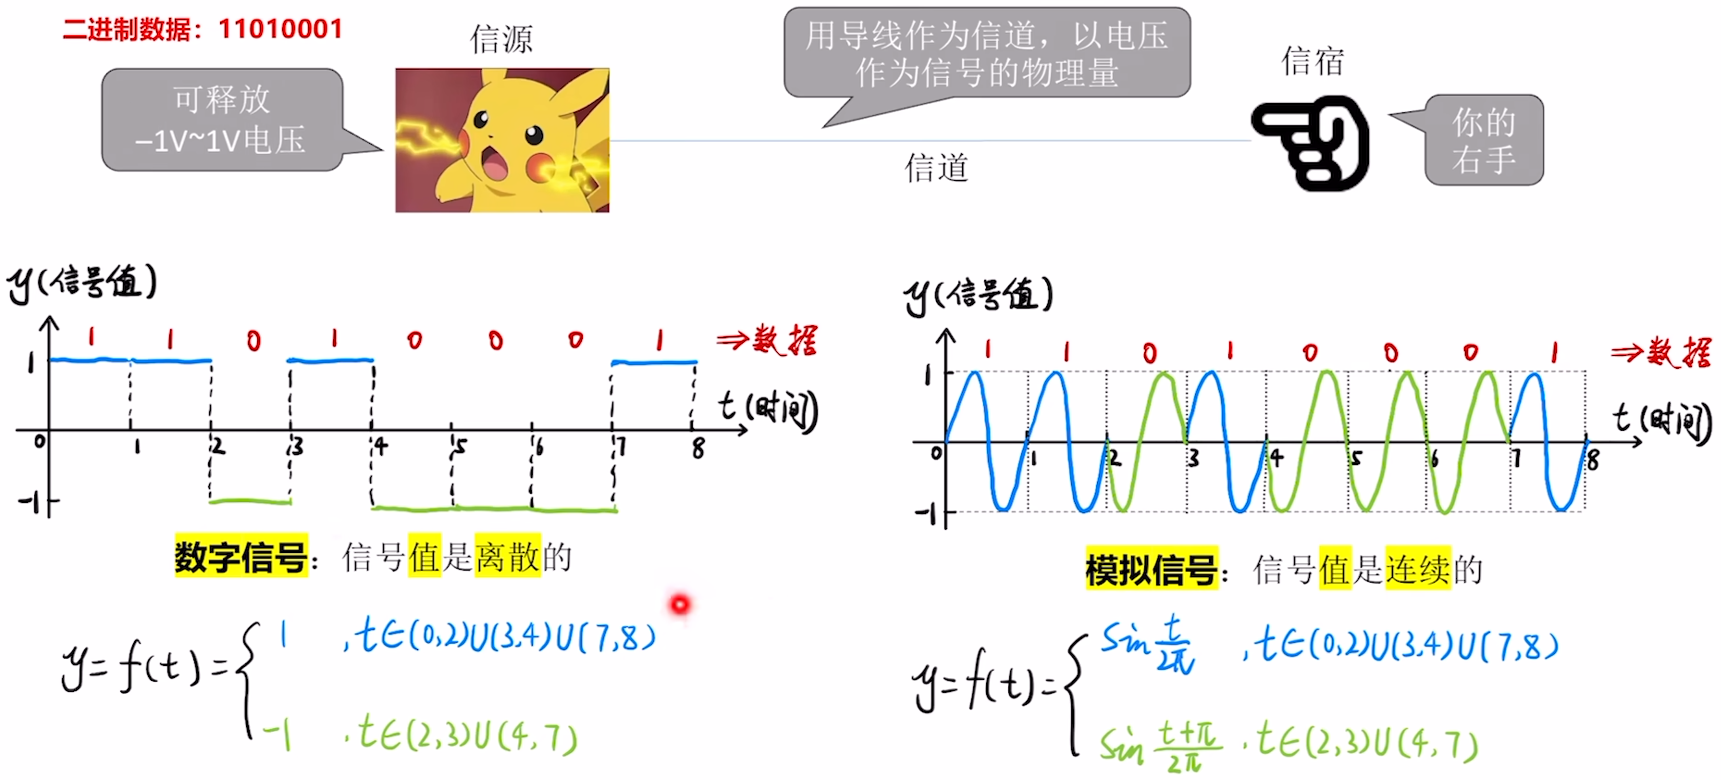
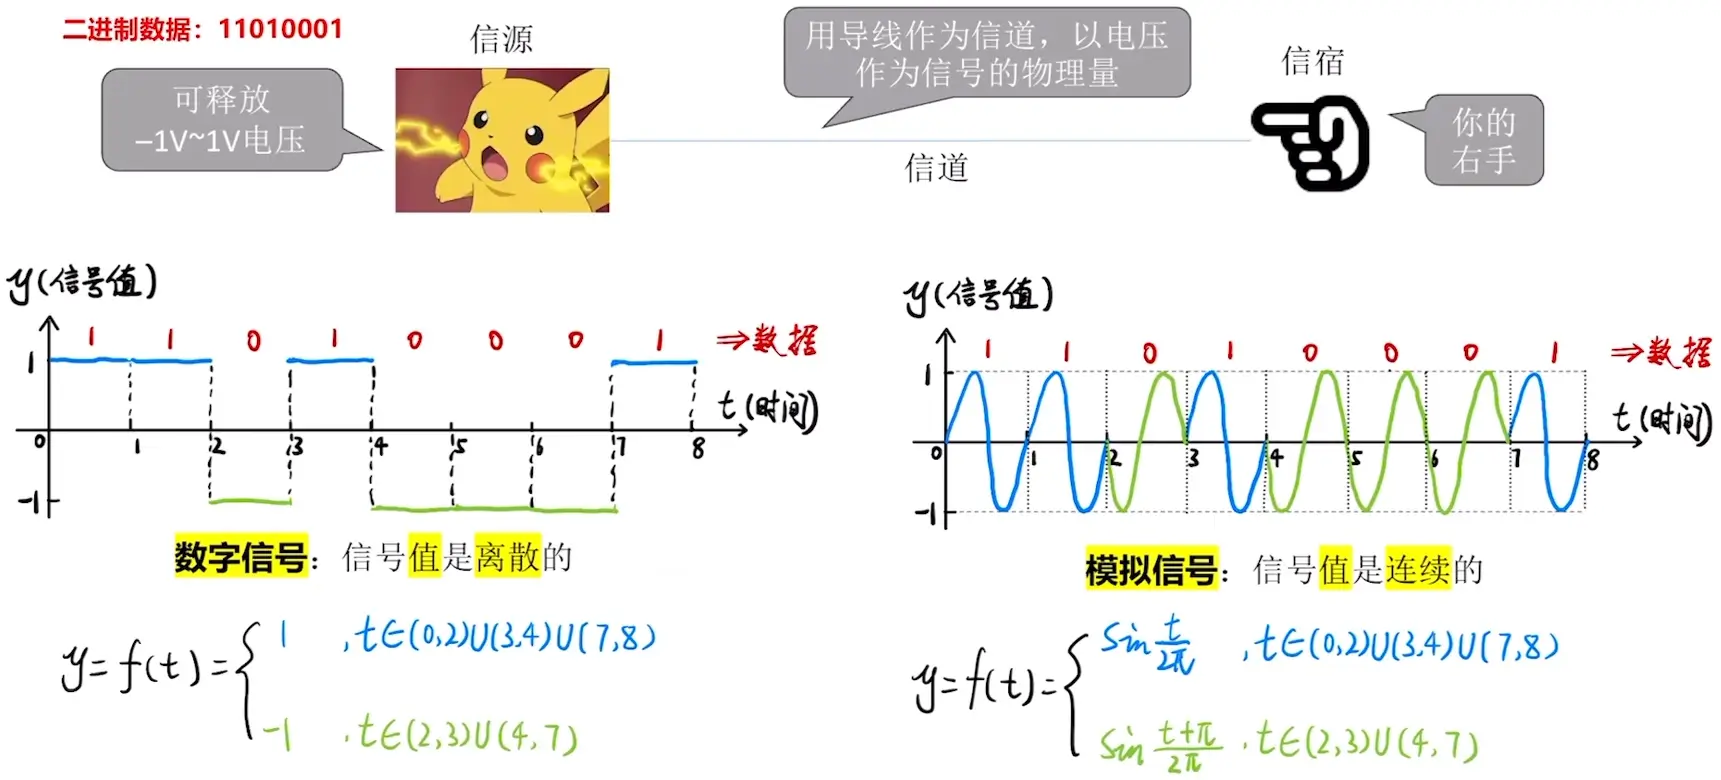
Update files

diff --git a/computer-network/02_物理层.md b/computer-network/02_物理层.md
@@ -6,7 +6,7 @@
 
 **知识总览**：
 
-<img src="../images/image-202510281333.webp" style="zoom: 50%;" />
+<img src="../images/image-202510281333.webp" style="zoom: 33%;" />
 
 ### 信源、信宿、信号、信道
 
@@ -26,7 +26,7 @@
 
 <img src="../images/image-202510281525.svg" style="zoom:150%;" />
 
-每一个信号就是一个“<span style="color:#F87B1B; font-weight:bold">码元</span>”，可以把“<span style="color:#F87B1B; font-weight:bold">码元宽度</span>”。
+每一个信号就是一个“<span style="color:#F87B1B; font-weight:bold">码元（symbol）</span>”，可以把“信号周期”称为“<span style="color:#F87B1B; font-weight:bold">码元宽度</span>”。
 
 若一个信号周期内出现 4 种信号，那么每个信号就可以对应一个 4 进制数（2bit），如：
 
@@ -34,3 +34,203 @@
 - 1V → 01
 - -1V → 10
 - -2V → 11
+
+当一个码元有更多种状态时，有：
+
+<img src="../images/image-202510281542.webp" style="zoom: 50%;" />
+
+- **优点**：每个“信号周期”可以传输更多信息；换句话说，每个码元可以携带更多的信息。
+- **代价**：需要加强信号功率，并且对信道的要求更高。
+
+若一个码元（即一个信号）可能有 4 种状态，那么可以称其为<span style="color:#F87B1B; font-weight:bold"> 4 进制码元</span>（一个码元携带 2bit 数据）。
+
+类似地，若一个码元（即一个信号）可能有 8 种状态，那么可以称其为<span style="color:#CD2C58; font-weight:bold"> 8 进制码元</span>（一个码元携带 3bit 数据）。
+
+### 用模拟信号设计 4 进制码元
+
+<img src="../images/image-202510281551.webp" style="zoom:67%;" />
+
+通过 4 种不同的关系来设计 4 进制码元。
+
+### 码元与比特的关系
+
+**一个码元可以携带多少比特数据？**
+
+若一个“<span style="color:#8C00FF; font-weight:bold">周期</span>”内可能出现<span style="color:#FFC400; font-weight:bold"> K 种信号</span>，则：
+$$
+1 \text{码元} = \log_2 K \text{bit}
+$$
+
+> [!tip]
+>
+> 本质上，这表示区分 K 种不同信号所需的最小比特数。
+
+### 速率
+
+<img src="../images/image-202510281601.webp" style="zoom: 50%;" />
+
+> [!tip]
+>
+> 若一个码元携带 n 比特的数据量，则波特率 M Baud 对应的比特率为 Mn b/s。
+
+---
+
+**知识回顾**：
+
+<img src="../images/image-202510281604.webp" style="zoom:67%;" />
+
+## 信道的极限容量
+
+**知识总览**：
+
+<img src="../images/image-202510281919.webp" style="zoom: 50%;" />
+
+### 回顾：带宽
+
+<img src="../images/image-202510281927.webp" style="zoom:67%;" />
+
+### 噪声（noise）
+
+<img src="../images/image-202510281932.webp" style="zoom:67%;" />
+
+### 奈奎斯特定理（奈氏准则）
+
+**奈奎斯特（*Nyquist*）定理**：对于一个<u><span style="color:#A72703">理想低通信道</span></u>（**没有噪声**、带宽有限的信道），其<span style="color:#F87B1B">极限波特率为 2W</span>。（单位：波特，即码元/秒）
+
+> [!tip]
+>
+> W 是信道的频率带宽（单位：Hz）。
+
+则其极限比特率为 2W $\log_2 K$ b/s。
+
+<img src="../images/image-202510282037.webp" style="zoom:67%;" />
+
+4 个幅值，即 4 种信号，也即 4 种码元。
+
+因此每个码元携带<span style="color:#F87B1B"> $\log_2 4 = 2 \text{bit} $</span> 的数据。
+
+该信道的最大数据传输速率为 $2 \times 200 \text{k} \times \log_2 4 = 800 \text{kbps}$。
+
+### 香农定理
+
+**香农（Shannon）定理**：对于一个<span style="color:#CD2C58; font-weight:bold">有噪声</span>、<span style="color:#CD2C58; font-weight:bold">带宽有限</span>的信道，其**极限比特率**为 $W \log_2(1 + \dfrac{S}{N})$（单位：b/s）。
+
+其中 W 是信道的频率带宽（单位：Hz），$\dfrac{S}{N}$ 是信噪比。
+
+#### 信噪比
+
+<img src="../images/image-202510282113.webp" style="zoom:67%;" />
+
+由信噪比公式可知，<u>信噪比越高，噪声对于数据传输的影响越小</u>。而提高信噪比，可以通过<span style="color:#F25912">提高信号的功率</span>或<span style="color:#F25912">降低噪声的功率</span>。
+
+上述信噪比无单位。
+
+#### 信噪比（另一记法）
+
+以“db（分贝）”为单位来表示**信噪比**，则有：
+$$
+信噪比 = 10 \log_{10} \dfrac{S}{N}
+$$
+单位为：db（分贝）。
+
+在通信领域，信号功率往往比噪声功率大得多，如：
+
+网线信号功率 > 10W，电场、磁场噪声干扰极小。
+
+采用无单位记法，信噪比为 $\frac{S}{N} = 10000000000000000000$。
+
+将上述记法转换为以分贝为单位，信噪比为：
+$$
+10 \log_{10} \frac{S}{N} = 10 \log_{10} 10000000000000000000 = 190 \text{db}
+$$
+
+---
+
+而在香农定理中，采用的信噪比为无单位记法。
+
+<img src="../images/image-202510282123.webp" style="zoom: 67%;" />
+
+将 30db 转换为无单位记法，有：
+$$
+\frac{S}{N} = 10^3 = 1000
+$$
+因此根据香农定理，**理论极限比特率**为：
+$$
+\begin{align*}
+C
+&= W \log_2 \left(1 + \frac{S}{N}\right) \\
+&= 8 \text{k} \log_2 (1 + 1000) \\
+&\approx 80 \text{kbps}
+\end{align*}
+$$
+即理论最大传输速率为 80kbps，因此<span style="color:#016B61">实际传输速率为 40kbps</span>。
+
+### 奈奎斯特定理 vs. 香农定理
+
+**奈奎斯特（*Nyquist*）定理**：对于一个<u><span style="color:#A72703">理想低通信道</span></u>（**没有噪声**、带宽有限的信道），其<span style="color:#F87B1B">极限波特率为 2W</span>。（单位：波特，即码元/秒）
+
+奈奎斯特定理说明：
+
+- 波特率太高，会导致“<span style="color:#FF3F7F">码间串扰</span>”，即接收方无法识别码元。
+- 带宽越大，信道传输码元的能力越强。
+- <span style="color:#BF092F">奈奎斯特定理并未对一个码元最多可以携带多少比特做出解释。</span>
+
+**香农（Shannon）定理**：对于 一个<span style="color:#CD2C58; font-weight:bold">有噪声</span>、<span style="color:#CD2C58; font-weight:bold">带宽有限</span>的信道，其**极限比特率**为 $W \log_2(1 + \dfrac{S}{N})$（单位：b/s）。
+
+香农定理说明：
+
+- 提升信道带宽、加强信号功率、降低噪声功率，都可以提升信道的极限比特率。
+- <span style="color:#F25912">结合奈奎斯特定理可知，在带宽、信噪比均确定的信道上，一个码元可以携带的比特数是有上限的。</span>
+
+---
+
+**知识回顾**：
+
+<img src="../images/image-202510282208.webp" style="zoom:67%;" />
+
+## 编码和调制
+
+**知识总览**：
+
+<img src="../images/image-202510291259.webp" style="zoom:50%;" />
+
+### 编码 & 解码、调制 & 解调
+
+<img src="../images/image-202510291306.webp" style="zoom:67%;" />
+
+> [!tip]
+>
+> - 编码：Encoding
+> - 解码：Decoding
+> - 调制：Modulation
+> - 解调：Demodulation
+
+### 常见的编码方法
+
+<img src="../images/image-202510292153.webp" style="zoom:67%;" />
+
+#### 曼彻斯特编码
+
+<img src="../images/image-202510292140.webp" style="zoom:67%;" />
+
+> [!tip]
+>
+> Manchester 编码是在每个比特周期的中间发生电平跳变，而不是在信号周期的边缘跳变。
+
+### 各种编码的特点
+
+<img src="../images/image-202510292158.webp" style="zoom:67%;" />
+
+> [!tip]
+>
+> <span style="color:#A72703; font-weight:bold">自同步能力</span>：信源和信宿可以根据信号完成“节奏同步”，无需时钟信号。
+
+<img src="../images/image-202510282204.webp" style="zoom:67%;" />
+
+易知，选择选项 A。
+
+<img src="../images/image-202510292204.webp" style="zoom:67%;" />
+
+差分曼彻斯特编码的特点是**跳 0 不跳 1 看起点，中必变**。
+
+由此可知，该题选择 C。

diff --git a/operating-system/02_进程管理.md b/operating-system/02_进程管理.md
@@ -459,22 +459,20 @@ int main() {
 > 2. 线程调度、切换等工作都由内核负责，因此**内核级线程的切换**必然需要在<span style="color:#D97D55; font-weight:bold">核心态</span>下才能完成。
 > 3. 操作系统会为每个内核级线程建立相应的线程控制块（Thread Control Block, TCB），通过 TCB 对线程进行管理。**“内核级线程”**就是**“从操作系统内核视角看能看到的线程”**。
 
-- **优点**：当一个线程被阻塞后，<u>别的线程还可以继续执行</u>，并发能力强。多线程可在多核处理机上并行执行。
+- **优点**：当一个线程被阻塞后，<u>别的线程还可以继续执行</u>，并发能力强；多线程可在多核处理机上并行执行。
 - **缺点**：一个用户进程会占用多个内核级线程，线程切换由操作系统内核完成，需要切换到核心态，因此线程管理的成本高、开销大。
 
 ### 多线程模型
 
-在支持内核级线程的系统中，根据用户级线程和内核级线程的映射关系，可以划分为几种多线程模型。
+- <span style="color:red">一对一模型</span>：一个用户级线程映射到一个内核级线程，每个用户级进程有与用户级线程<span style="color:#129990"><u>同数量</u></span>的内核级线程。
 
-- <span style="color:red">**一对一**模型</span>：一个用户级线程映射到一个内核级线程。每个用户级进程有与用户级线程<span style="color:#129990"><u>同数量</u></span>的内核级线程。
-
-  **优点**：当一个线程被阻塞后，别的线程还可以继续执行，并发能力强。多线程可在多核处理机上并行执行。
+  **优点**：当一个线程被阻塞后，别的线程还可以继续执行，并发能力强；多线程可在多核处理机上并行执行。
 
   **缺点**：一个用户进程会占用多个内核级线程，线程切换由操作系统内核完成，需要切换到核心态，因此线程管理成本高、开销大。
 
   <img src="../images/image-202508250537.webp" style="zoom:40%;" />
 
-- <span style="color:red">**多对一**模型</span>：多个用户级线程映射到一个内核级线程。且一个进程只被分配一个内核级线程。
+- <span style="color:red">多对一模型</span>：多个用户级线程映射到一个内核级线程，且一个进程只被分配一个内核级线程。
 
   **优点**：用户级线程的切换在用户空间即可完成，不需要切换到核心态，线程管理的系统开销小，效率高。
 
@@ -484,9 +482,9 @@ int main() {
 
   > [!tip]
   >
-  > 操作系统只“看得见”内核级线程，因此只有<span style="color:red">内核级线程才是**处理机分配的单位**</span>。
+  > 操作系统只“看得见”内核级线程，因此只有<span style="color:red">内核级线程才是<span style="font-weight:bold">处理机分配的单位</span></span>。
 
-- <span style="color:red">**多对多**模型</span>：n 用户及线程映射到 m 个内核级线程（$\text{n} \ge \text{m}$）。每个用户进程对应 m 个内核级线程。
+- <span style="color:red">多对多模型</span>：n 用户级线程映射到 m 个内核级线程（$n \ge m$），每个用户进程对应 m 个内核级线程。
 
   克服了多对一模型并发度不高的缺点（一个阻塞，全体阻塞），又克服了一对一模型中一个用户进程占用太多内核级线程、开销太大的缺点。
 
@@ -532,7 +530,7 @@ int main() {
 
 内存空间有限，有时无法将用户提交的任务全部放入内存。
 
-**高级调度（作业调度）**，按一定的原则从外存的作业后备队列中挑选一个作业调入内存，并创建进程。**每个作业只调入一次，调出一次**。作业调入时会建立 PCB，调出时才撤销 PCB。（<span style="color:#3D90D7">简而言之，多个程序需要启动，操作系统决定启动哪个</span>）
+**高级调度（作业调度）**，按一定的规则从外存的作业后备队列中挑选一个作业调入内存，并创建进程。**每个作业只调入一次，调出一次**。作业调入时会建立 PCB，调出时才撤销 PCB。（<span style="color:#3D90D7">简而言之，多个程序需要启动，操作系统决定启动哪个</span>）
 
 ### 低级调度
 
@@ -546,9 +544,9 @@ int main() {
 
 ### 中级调度
 
-内存不够时，可将某些进程的数据调出外存。等内存空闲或者进程需要运行时再重新调入内存。
+内存不够时，可将某些进程的数据调出外存，等内存空闲或者进程需要运行时再重新调入内存。
 
-暂时调到外存等待的进程状态是**挂起状态**。被挂起的进程 PCB 会被组织成**挂起队列**。
+暂时调到外存等待的进程状态是**挂起状态**，被挂起的进程 PCB 会被组织成**挂起队列**。
 
 **中级调度（内存调度）**——按照某种策略决定将<u>哪个处于挂起状态的进程<span style="color:#537D5D">**重新调入**</span>内存</u>。
 
@@ -556,7 +554,7 @@ int main() {
 
 ---
 
-暂时调到外存等待的进程状态为**挂起状态（挂起态，suspend）**，挂起态又可以进一步细分为**就绪挂起**、**阻塞挂起**两种状态，扩张五状态模型至七状态模型。
+暂时调到外存等待的进程状态为**挂起状态（挂起态，suspend）**，挂起态又可以进一步细分为**就绪挂起**、**阻塞挂起**两种状态，拓展五状态模型至七状态模型。
 
 <img src="../images/image-202508251005.webp" style="zoom:40%;" />
 
